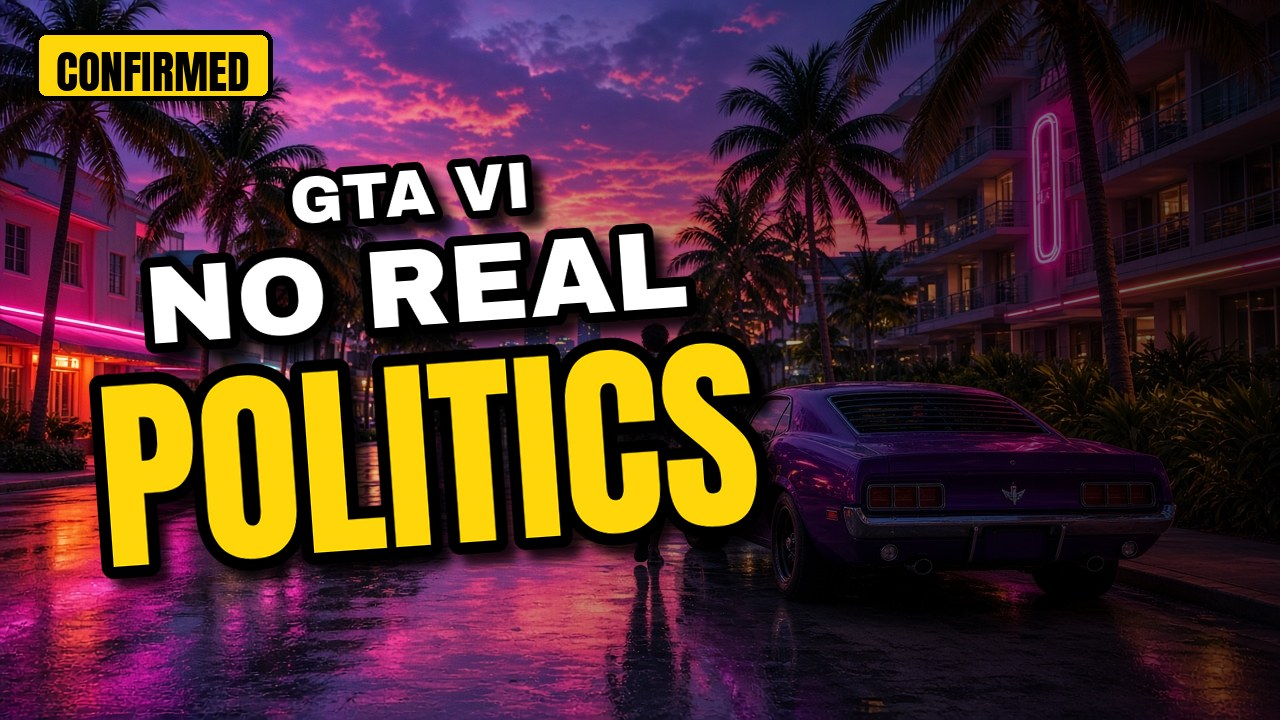
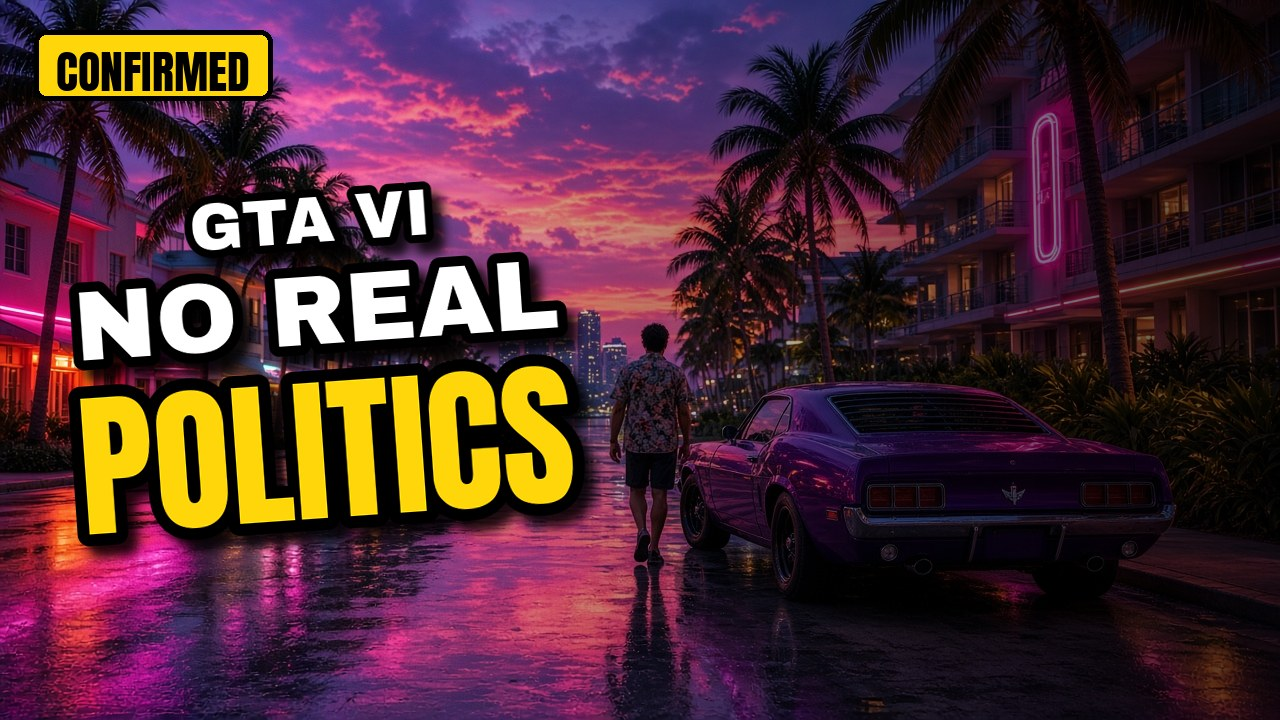
Photo covers: text in outer side, opposite the main subject

Changed region(s): [[0.0312, 0.2139, 0.625, 0.825]]

diff --git a/scripts/thumbs_v2.py b/scripts/thumbs_v2.py
@@ -130,6 +130,7 @@ def _fit(path, txt, size, maxw, stroke):
         size -= 4
     return ImageFont.truetype(path, size)
 
+# side = where the main subject (character or photo subject) is; the text always goes on the OPPOSITE side.
 def render(out, lines, key=0, label=None, theme='fire', character=None, side='right', badge=None, bg_image=None, bg_mode='faint'):
     focus = (W - 330, 330) if side == 'right' else (330, 330)
     im = background(theme, focus, bg_image, bg_mode)
@@ -140,7 +141,8 @@ def render(out, lines, key=0, label=None, theme='fire', character=None, side='ri
         p = character if os.path.isabs(character) else os.path.join(ROOT, 'media/characters', character)
         place_character(im, p, side, light)
     # text block
-    maxw = 690
+    full_photo = bool(bg_image and bg_mode == 'full' and not character)
+    maxw = 520 if full_photo else 690  # photo covers: keep text in the outer ~45% so the subject stays clear
     block = []
     if label: block.append(_text_img(label.upper(), _fit(F_BOLD, label.upper(), 64, 420, 8), WHITE, 8))
     for i, t in enumerate(lines):
@@ -154,6 +156,7 @@ def render(out, lines, key=0, label=None, theme='fire', character=None, side='ri
     T = T.rotate(4, expand=True, resample=Image.BICUBIC)
     if T.height > H - 30: T = T.resize((int(T.width * (H - 30) / T.height), H - 30), Image.LANCZOS)
     cx = (W * 0.33) if side == 'right' else (W * 0.67)
+    if full_photo: cx = (W * 0.25) if side == 'right' else (W * 0.75)
     tx = int(max(10, min(W - T.width - 10, cx - T.width / 2))); ty = (H - T.height) // 2
     im.alpha_composite(T, (tx, ty))
     if badge:

diff --git a/RUNBOOK-news.md b/RUNBOOK-news.md
@@ -67,7 +67,7 @@ thumb: {style: v2, label: "GTA VI", lines: ["RADIO", "REVEALED"], key: 0, theme:
   - Use it as `bg: media/characters/gta6-<scene>.jpg`, `bg_mode: full`, no `character:`, `side: left` (text side). New scene every post; never reuse an earlier GTA image (check `rg -n "^thumb" content/articles/gta-*.md`).
   - GenerateImage returns a path outside the repo: copy it into `media/characters/gta6-<scene>.jpg` IMMEDIATELY after generating (`cp <returned path> media/characters/gta6-<scene>.jpg`), before doing anything else.
   - Before building, confirm the generated file exists on disk (`ls -la media/characters/gta6-<scene>.jpg`) and look at it: it must be photoreal with no drawn/cartoon elements. If the image can't be saved, retry generating; NEVER fall back to props or placeholders.
-- **Photoreal full-bleed covers (`bg_mode: full`, all games) keep the photo's natural brightness and colors:** no rays, glow, colour wash, speed lines, halftone or vignette; only a soft dark gradient on the text side (the side opposite `side:`) for readability. This is built into `thumbs_v2.py`; don't add effects back. Pick `side` so the text lands on the emptier half of the scene.
+- **Photoreal full-bleed covers (`bg_mode: full`, all games) keep the photo's natural brightness and colors:** no rays, glow, colour wash, speed lines, halftone or vignette; only a soft dark gradient on the text side (the side opposite `side:`) for readability. This is built into `thumbs_v2.py`; don't add effects back. **`side` = the side where the MAIN SUBJECT is (soldier, helicopter, car); the text ALWAYS goes on the OPPOSITE side** (`side: left` -> text on the right). Look at the generated image first and set `side` to where its subject sits; check the rendered thumb by eye that no text covers the subject.
 - Optional `bg: media/screenshots/...jpg` adds a faint, colour-graded scene under the rays (default `bg_mode: faint`); `bg_mode: full` uses the real scene, colour-graded, as the background.
 - **ARC Raiders thumbnails MUST use Rick's own gameplay images** (never the AI placeholder):
   - Clean HUD-free scenes (1600x900): `media/screenshots/arc-raiders/clean/arc-01.jpg` … `arc-06.jpg`. Use them as `bg:` with `bg_mode: full`.
